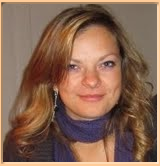
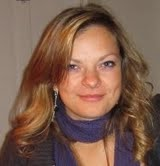
changed style sheet to jm to try it out

Changed region(s): [[0.0, 0.0, 1.0, 1.0]]

diff --git a/index.html b/index.html
@@ -15,7 +15,7 @@ carrying out post Doctorate research at Imperial College, London." >
 <div class ="content" > <a name="top"></a>
 <div class = "header">
 <a href="mailto:c.merrifield07@imperial.ac.uk "
-Title="Claire Email"><img src="Claire.jpg" alt="Claire Email" id="claire"></a>
+Title="Claire Email"><img src="Claire.png" alt="Claire Email" id="claire"></a>
 
 
 

diff --git a/cm1.css b/cm1.css
@@ -45,7 +45,7 @@ div.links a {
 div.links a:hover {
 	color: #F93; border-color: #F93;
 }
-image#claire {
+image#claire {border : 1px #7C9 ;
 }
 imge#chalint {
 	float:left;
